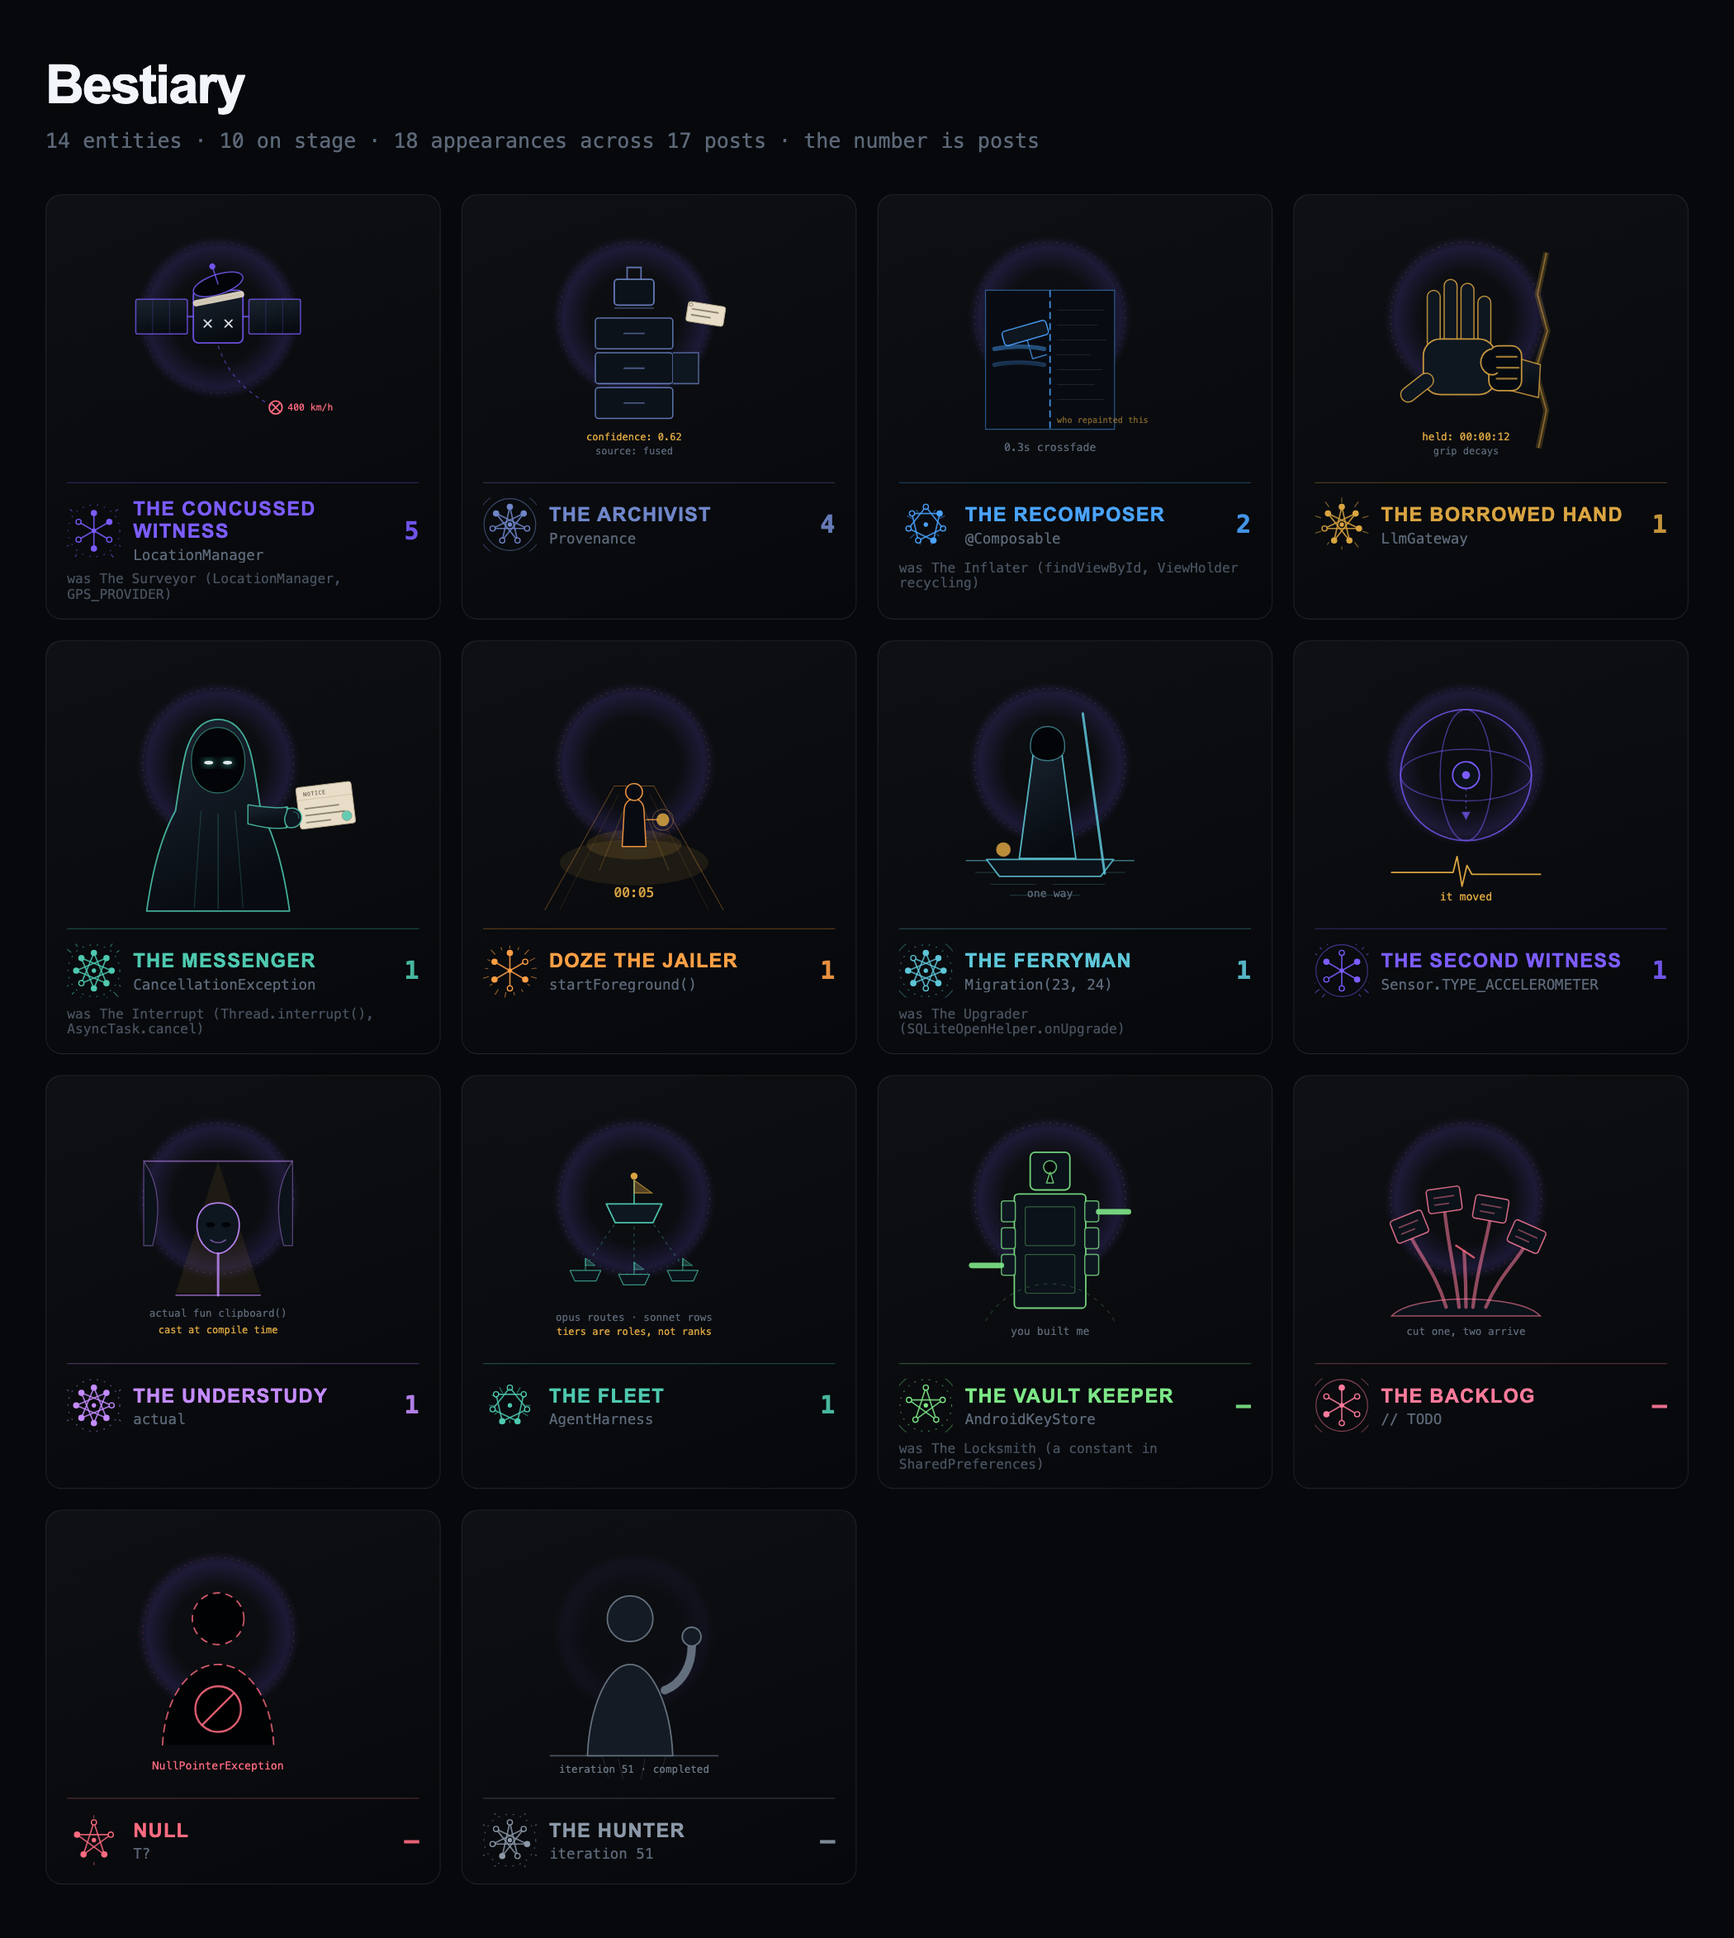
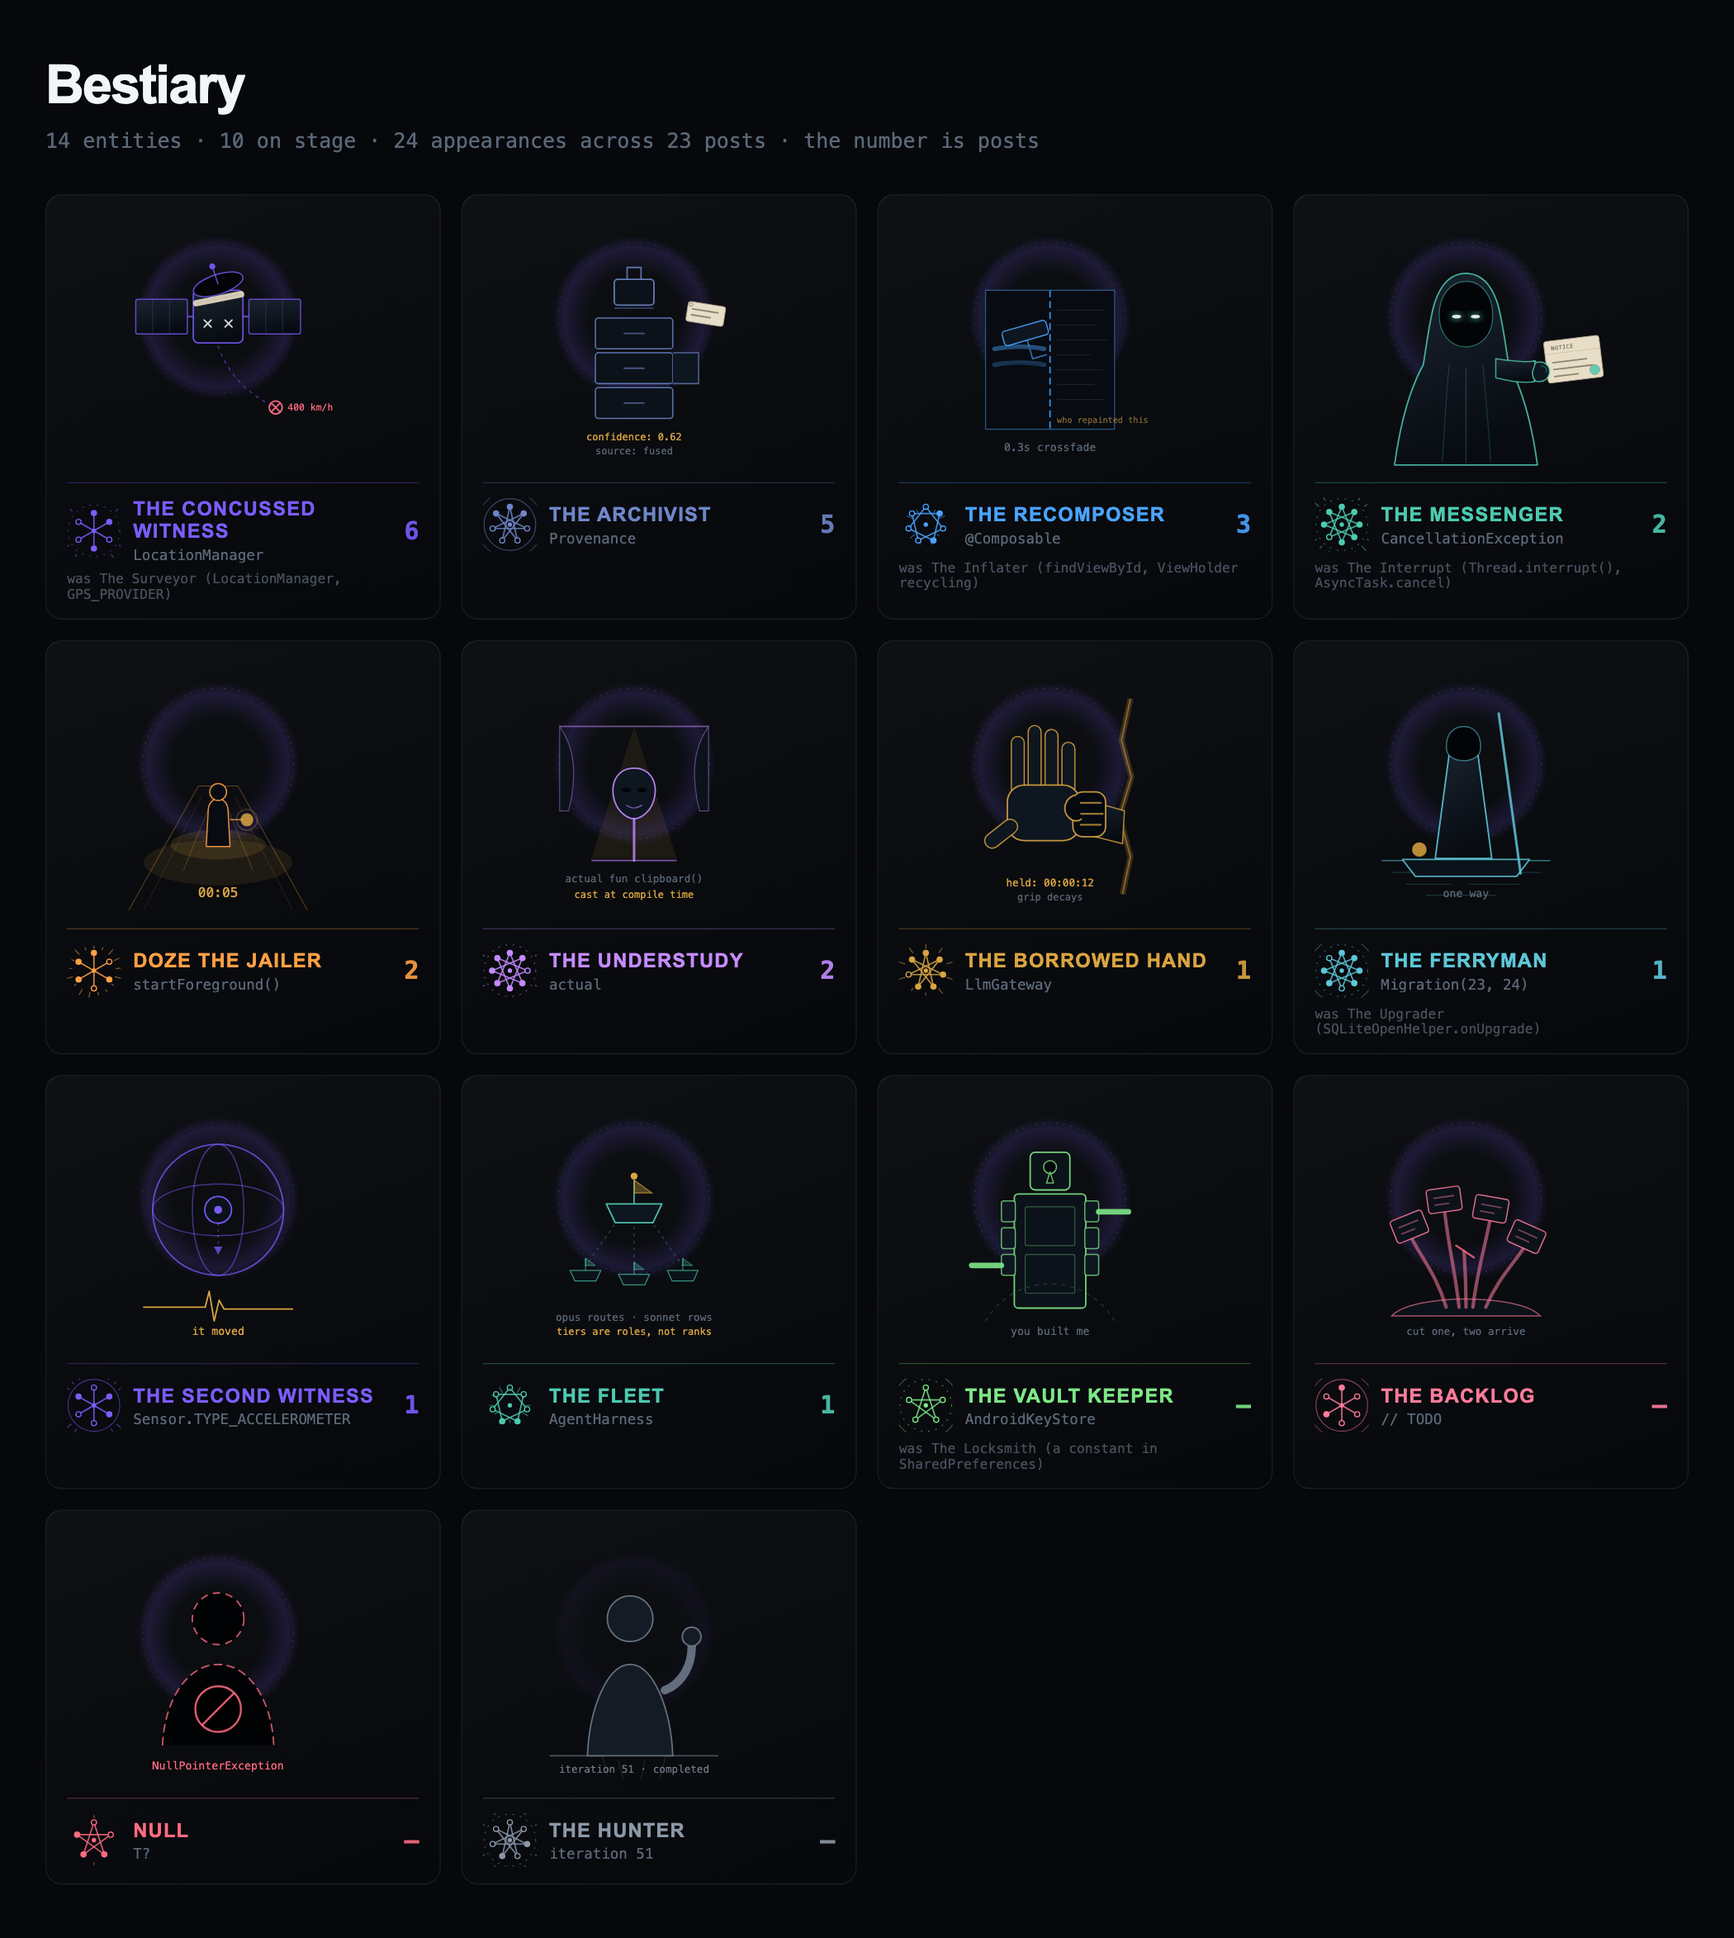
chore: regenerate registry, series pages and bestiary for the 2026-11 drafts

diff --git a/README.md b/README.md
@@ -68,6 +68,12 @@ The rhyme is the reward.
 
 | Date | Title | Series | Status | Live |
 |------|-------|--------|--------|------|
+| 2026-11-14 | [A payments client has no room for probably](lessons/2026-11-14-a-payments-client-has-no-room-for-probably/lesson.md) | one-brain-two-bodies | ⚪ draft | — |
+| 2026-11-12 | [Gateway number 71 is one line, and nothing checks it](lessons/2026-11-12-gateway-number-71-is-one-line-and-nothing-checks-it/lesson.md) | notes-from-the-loop | ⚪ draft | — |
+| 2026-11-10 | [Your LazyColumn is keyed by position until you say otherwise](lessons/2026-11-10-your-lazycolumn-is-keyed-by-position-until-you-say-otherwise/lesson.md) | ghosts-in-the-recomposition | ⚪ draft | — |
+| 2026-11-07 | [My README said 66 gateways. The code said 70.](lessons/2026-11-07-my-readme-said-66-gateways-the-code-said-70/lesson.md) | chain-of-custody | ⚪ draft | — |
+| 2026-11-05 | [SupervisorJob does not catch anything](lessons/2026-11-05-supervisorjob-does-not-catch-anything/lesson.md) | the-coroutine-court | ⚪ draft | — |
+| 2026-11-03 | [The wake lock with an expiry date](lessons/2026-11-03-the-wake-lock-with-an-expiry-date/lesson.md) | the-night-shift | ⚪ draft | — |
 | 2026-09-02 | [The captain routes. The captain never rows.](lessons/2026-09-02-the-captain-never-rows/lesson.md) | notes-from-the-loop | 🟡 ready | — |
 | 2026-08-31 | [I audited my own migrations. It was not fine.](lessons/2026-08-31-the-ferryman-rows-one-way/lesson.md) | crossing-the-schema | 🟡 ready | — |
 | 2026-08-29 | [Plausible is worse than wrong](lessons/2026-08-29-the-borrowed-hand/lesson.md) | notes-from-the-loop | 🟡 ready | — |
@@ -90,16 +96,16 @@ The rhyme is the reward.
 
 | Character | Appearances | In |
 |-----------|-------------|----|
-| `the-concussed-witness` | 5 | [Every filter needs a documented exception](lessons/2026-08-20-documented-exception/lesson.md), [When two sensors disagree, rank them](lessons/2026-08-13-accelerometer-outranks-gps/lesson.md), [One global threshold is how you delete valid data](lessons/2026-08-06-one-global-threshold/lesson.md), [Filtered should never mean deleted](lessons/2026-08-04-filtered-never-deleted/lesson.md), [Teaching a phone to disbelieve its own GPS](lessons/2026-07-19-mileway-dead-reckoning/lesson.md) |
-| `the-archivist` | 4 | [Your thresholds do not belong in constants](lessons/2026-08-27-thresholds-in-config/lesson.md), [Invariants are cheap. Silent corruption is not.](lessons/2026-08-25-invariants-are-cheap/lesson.md), [Never silently change a number someone gets paid on](lessons/2026-08-18-never-silently-change-a-number/lesson.md), [Your data model is where uncertainty goes to die](lessons/2026-08-11-uncertainty-dies-in-data-model/lesson.md) |
-| `the-recomposer` | 2 | [collectAsState is quietly leaking your work](lessons/2026-07-31-collectasstate-leak/lesson.md), [Your LazyColumn recomposes on every scroll](lessons/2026-07-24-lazycolumn-recomposition/lesson.md) |
+| `the-concussed-witness` | 6 | [A payments client has no room for probably](lessons/2026-11-14-a-payments-client-has-no-room-for-probably/lesson.md), [Every filter needs a documented exception](lessons/2026-08-20-documented-exception/lesson.md), [When two sensors disagree, rank them](lessons/2026-08-13-accelerometer-outranks-gps/lesson.md), [One global threshold is how you delete valid data](lessons/2026-08-06-one-global-threshold/lesson.md), [Filtered should never mean deleted](lessons/2026-08-04-filtered-never-deleted/lesson.md), [Teaching a phone to disbelieve its own GPS](lessons/2026-07-19-mileway-dead-reckoning/lesson.md) |
+| `the-archivist` | 5 | [My README said 66 gateways. The code said 70.](lessons/2026-11-07-my-readme-said-66-gateways-the-code-said-70/lesson.md), [Your thresholds do not belong in constants](lessons/2026-08-27-thresholds-in-config/lesson.md), [Invariants are cheap. Silent corruption is not.](lessons/2026-08-25-invariants-are-cheap/lesson.md), [Never silently change a number someone gets paid on](lessons/2026-08-18-never-silently-change-a-number/lesson.md), [Your data model is where uncertainty goes to die](lessons/2026-08-11-uncertainty-dies-in-data-model/lesson.md) |
+| `the-recomposer` | 3 | [Your LazyColumn is keyed by position until you say otherwise](lessons/2026-11-10-your-lazycolumn-is-keyed-by-position-until-you-say-otherwise/lesson.md), [collectAsState is quietly leaking your work](lessons/2026-07-31-collectasstate-leak/lesson.md), [Your LazyColumn recomposes on every scroll](lessons/2026-07-24-lazycolumn-recomposition/lesson.md) |
+| `the-understudy` | 2 | [Gateway number 71 is one line, and nothing checks it](lessons/2026-11-12-gateway-number-71-is-one-line-and-nothing-checks-it/lesson.md), [expect/actual is the wrong default in KMP](lessons/2026-07-29-kmp-expect-actual-default/lesson.md) |
+| `the-messenger` | 2 | [SupervisorJob does not catch anything](lessons/2026-11-05-supervisorjob-does-not-catch-anything/lesson.md), [CancellationException is not an assassin](lessons/2026-07-20-coroutine-cancellation-messenger/lesson.md) |
+| `doze-the-jailer` | 2 | [The wake lock with an expiry date](lessons/2026-11-03-the-wake-lock-with-an-expiry-date/lesson.md), [The 5-second window that crashes your service](lessons/2026-07-22-foreground-service-five-seconds/lesson.md) |
 | `the-fleet` | 1 | [The captain routes. The captain never rows.](lessons/2026-09-02-the-captain-never-rows/lesson.md) |
 | `the-ferryman` | 1 | [I audited my own migrations. It was not fine.](lessons/2026-08-31-the-ferryman-rows-one-way/lesson.md) |
 | `the-borrowed-hand` | 1 | [Plausible is worse than wrong](lessons/2026-08-29-the-borrowed-hand/lesson.md) |
 | `the-second-witness` | 1 | [When two sensors disagree, rank them](lessons/2026-08-13-accelerometer-outranks-gps/lesson.md) |
-| `the-understudy` | 1 | [expect/actual is the wrong default in KMP](lessons/2026-07-29-kmp-expect-actual-default/lesson.md) |
-| `doze-the-jailer` | 1 | [The 5-second window that crashes your service](lessons/2026-07-22-foreground-service-five-seconds/lesson.md) |
-| `the-messenger` | 1 | [CancellationException is not an assassin](lessons/2026-07-20-coroutine-cancellation-messenger/lesson.md) |
 
 ### 📚 Archive (10 pieces)
 

diff --git a/lore/bestiary.md b/lore/bestiary.md
@@ -10,7 +10,7 @@ Generated by `scripts/bestiary.mjs`. Do not hand-edit: it rebuilds from
 [cast.md](cast.md), [pantheon.md](pantheon.md) and the `cast:` frontmatter in every lesson,
 so it is a record rather than a claim.
 
-**14 entities. 10 have appeared. 18 appearances across 17 posts.**
+**14 entities. 10 have appeared. 24 appearances across 23 posts.**
 
 Numbers in the appearances column are loop iterations, and link to the lesson.
 
@@ -18,15 +18,15 @@ Numbers in the appearances column are loop iterations, and link to the lesson.
 
 | Entity | Aspect | Posts | Iterations | Dead Aspect it replaced |
 |---|---|---:|---|---|
-| **THE CONCUSSED WITNESS** | `LocationManager` | 5 | [1](../lessons/2026-07-19-mileway-dead-reckoning/lesson.md) · [7](../lessons/2026-08-04-filtered-never-deleted/lesson.md) · [8](../lessons/2026-08-06-one-global-threshold/lesson.md) · [10](../lessons/2026-08-13-accelerometer-outranks-gps/lesson.md) · [12](../lessons/2026-08-20-documented-exception/lesson.md) | The Surveyor (`LocationManager`, `GPS_PROVIDER`) |
-| **THE ARCHIVIST** | `Provenance` | 4 | [9](../lessons/2026-08-11-uncertainty-dies-in-data-model/lesson.md) · [11](../lessons/2026-08-18-never-silently-change-a-number/lesson.md) · [13](../lessons/2026-08-25-invariants-are-cheap/lesson.md) · [14](../lessons/2026-08-27-thresholds-in-config/lesson.md) | — |
-| **THE RECOMPOSER** | `@Composable` | 2 | [4](../lessons/2026-07-24-lazycolumn-recomposition/lesson.md) · [6](../lessons/2026-07-31-collectasstate-leak/lesson.md) | The Inflater (`findViewById`, `ViewHolder` recycling) |
+| **THE CONCUSSED WITNESS** | `LocationManager` | 6 | [1](../lessons/2026-07-19-mileway-dead-reckoning/lesson.md) · [7](../lessons/2026-08-04-filtered-never-deleted/lesson.md) · [8](../lessons/2026-08-06-one-global-threshold/lesson.md) · [10](../lessons/2026-08-13-accelerometer-outranks-gps/lesson.md) · [12](../lessons/2026-08-20-documented-exception/lesson.md) · [23](../lessons/2026-11-14-a-payments-client-has-no-room-for-probably/lesson.md) | The Surveyor (`LocationManager`, `GPS_PROVIDER`) |
+| **THE ARCHIVIST** | `Provenance` | 5 | [9](../lessons/2026-08-11-uncertainty-dies-in-data-model/lesson.md) · [11](../lessons/2026-08-18-never-silently-change-a-number/lesson.md) · [13](../lessons/2026-08-25-invariants-are-cheap/lesson.md) · [14](../lessons/2026-08-27-thresholds-in-config/lesson.md) · [20](../lessons/2026-11-07-my-readme-said-66-gateways-the-code-said-70/lesson.md) | — |
+| **THE RECOMPOSER** | `@Composable` | 3 | [4](../lessons/2026-07-24-lazycolumn-recomposition/lesson.md) · [6](../lessons/2026-07-31-collectasstate-leak/lesson.md) · [21](../lessons/2026-11-10-your-lazycolumn-is-keyed-by-position-until-you-say-otherwise/lesson.md) | The Inflater (`findViewById`, `ViewHolder` recycling) |
+| **THE MESSENGER** | `CancellationException` | 2 | [2](../lessons/2026-07-20-coroutine-cancellation-messenger/lesson.md) · [19](../lessons/2026-11-05-supervisorjob-does-not-catch-anything/lesson.md) | The Interrupt (`Thread.interrupt()`, `AsyncTask.cancel`) |
+| **DOZE THE JAILER** | `startForeground()` | 2 | [3](../lessons/2026-07-22-foreground-service-five-seconds/lesson.md) · [18](../lessons/2026-11-03-the-wake-lock-with-an-expiry-date/lesson.md) | — |
+| **THE UNDERSTUDY** | `actual` | 2 | [5](../lessons/2026-07-29-kmp-expect-actual-default/lesson.md) · [22](../lessons/2026-11-12-gateway-number-71-is-one-line-and-nothing-checks-it/lesson.md) | — |
 | **THE BORROWED HAND** | `LlmGateway` | 1 | [15](../lessons/2026-08-29-the-borrowed-hand/lesson.md) | — |
-| **THE MESSENGER** | `CancellationException` | 1 | [2](../lessons/2026-07-20-coroutine-cancellation-messenger/lesson.md) | The Interrupt (`Thread.interrupt()`, `AsyncTask.cancel`) |
-| **DOZE THE JAILER** | `startForeground()` | 1 | [3](../lessons/2026-07-22-foreground-service-five-seconds/lesson.md) | — |
 | **THE FERRYMAN** | `Migration(23, 24)` | 1 | [16](../lessons/2026-08-31-the-ferryman-rows-one-way/lesson.md) | The Upgrader (`SQLiteOpenHelper.onUpgrade`) |
 | **THE SECOND WITNESS** | `Sensor.TYPE_ACCELEROMETER` | 1 | [10](../lessons/2026-08-13-accelerometer-outranks-gps/lesson.md) | — |
-| **THE UNDERSTUDY** | `actual` | 1 | [5](../lessons/2026-07-29-kmp-expect-actual-default/lesson.md) | — |
 | **THE FLEET** | `AgentHarness` | 1 | [17](../lessons/2026-09-02-the-captain-never-rows/lesson.md) | — |
 
 ## Waiting in the wings

diff --git a/series/chain-of-custody.md b/series/chain-of-custody.md
@@ -1,8 +1,9 @@
 # Chain Of Custody
 
-_Part of [The Loopdown](../README.md). 4 episode(s)._
+_Part of [The Loopdown](../README.md). 5 episode(s)._
 
 1. **[Your data model is where uncertainty goes to die](../lessons/2026-08-11-uncertainty-dies-in-data-model/lesson.md)** — 2026-08-11
 2. **[Never silently change a number someone gets paid on](../lessons/2026-08-18-never-silently-change-a-number/lesson.md)** — 2026-08-18
 3. **[Invariants are cheap. Silent corruption is not.](../lessons/2026-08-25-invariants-are-cheap/lesson.md)** — 2026-08-25 _(ready)_
 4. **[Your thresholds do not belong in constants](../lessons/2026-08-27-thresholds-in-config/lesson.md)** — 2026-08-27 _(ready)_
+5. **[My README said 66 gateways. The code said 70.](../lessons/2026-11-07-my-readme-said-66-gateways-the-code-said-70/lesson.md)** — 2026-11-07 _(draft)_

diff --git a/series/ghosts-in-the-recomposition.md b/series/ghosts-in-the-recomposition.md
@@ -1,6 +1,7 @@
 # Ghosts In The Recomposition
 
-_Part of [The Loopdown](../README.md). 2 episode(s)._
+_Part of [The Loopdown](../README.md). 3 episode(s)._
 
 1. **[Your LazyColumn recomposes on every scroll](../lessons/2026-07-24-lazycolumn-recomposition/lesson.md)** — 2026-07-24
 2. **[collectAsState is quietly leaking your work](../lessons/2026-07-31-collectasstate-leak/lesson.md)** — 2026-07-31
+3. **[Your LazyColumn is keyed by position until you say otherwise](../lessons/2026-11-10-your-lazycolumn-is-keyed-by-position-until-you-say-otherwise/lesson.md)** — 2026-11-10 _(draft)_

diff --git a/series/notes-from-the-loop.md b/series/notes-from-the-loop.md
@@ -1,6 +1,7 @@
 # Notes From The Loop
 
-_Part of [The Loopdown](../README.md). 2 episode(s)._
+_Part of [The Loopdown](../README.md). 3 episode(s)._
 
 1. **[Plausible is worse than wrong](../lessons/2026-08-29-the-borrowed-hand/lesson.md)** — 2026-08-29 _(ready)_
 2. **[The captain routes. The captain never rows.](../lessons/2026-09-02-the-captain-never-rows/lesson.md)** — 2026-09-02 _(ready)_
+3. **[Gateway number 71 is one line, and nothing checks it](../lessons/2026-11-12-gateway-number-71-is-one-line-and-nothing-checks-it/lesson.md)** — 2026-11-12 _(draft)_

diff --git a/series/one-brain-two-bodies.md b/series/one-brain-two-bodies.md
@@ -1,5 +1,6 @@
 # One Brain Two Bodies
 
-_Part of [The Loopdown](../README.md). 1 episode(s)._
+_Part of [The Loopdown](../README.md). 2 episode(s)._
 
 1. **[expect/actual is the wrong default in KMP](../lessons/2026-07-29-kmp-expect-actual-default/lesson.md)** — 2026-07-29
+2. **[A payments client has no room for probably](../lessons/2026-11-14-a-payments-client-has-no-room-for-probably/lesson.md)** — 2026-11-14 _(draft)_

diff --git a/series/the-coroutine-court.md b/series/the-coroutine-court.md
@@ -1,5 +1,6 @@
 # The Coroutine Court
 
-_Part of [The Loopdown](../README.md). 1 episode(s)._
+_Part of [The Loopdown](../README.md). 2 episode(s)._
 
 1. **[CancellationException is not an assassin](../lessons/2026-07-20-coroutine-cancellation-messenger/lesson.md)** — 2026-07-20
+2. **[SupervisorJob does not catch anything](../lessons/2026-11-05-supervisorjob-does-not-catch-anything/lesson.md)** — 2026-11-05 _(draft)_

diff --git a/series/the-night-shift.md b/series/the-night-shift.md
@@ -1,5 +1,6 @@
 # The Night Shift
 
-_Part of [The Loopdown](../README.md). 1 episode(s)._
+_Part of [The Loopdown](../README.md). 2 episode(s)._
 
 1. **[The 5-second window that crashes your service](../lessons/2026-07-22-foreground-service-five-seconds/lesson.md)** — 2026-07-22
+2. **[The wake lock with an expiry date](../lessons/2026-11-03-the-wake-lock-with-an-expiry-date/lesson.md)** — 2026-11-03 _(draft)_
